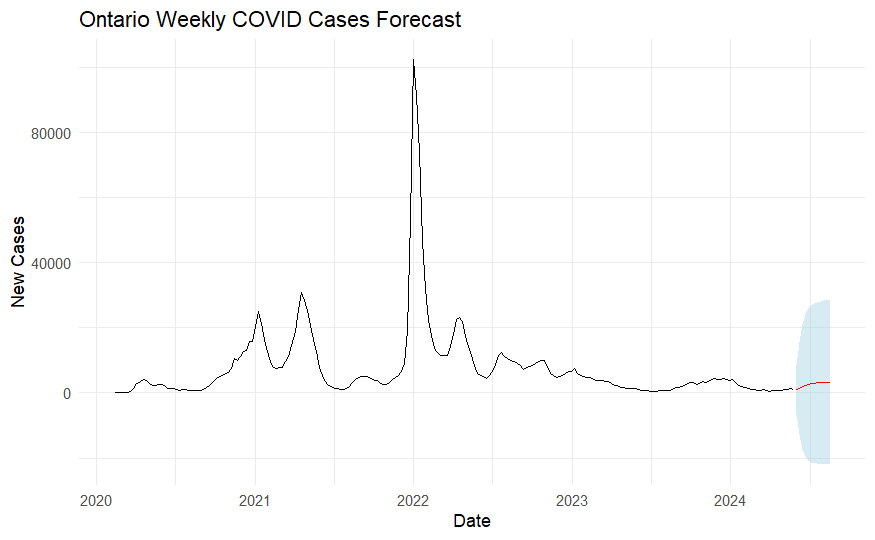
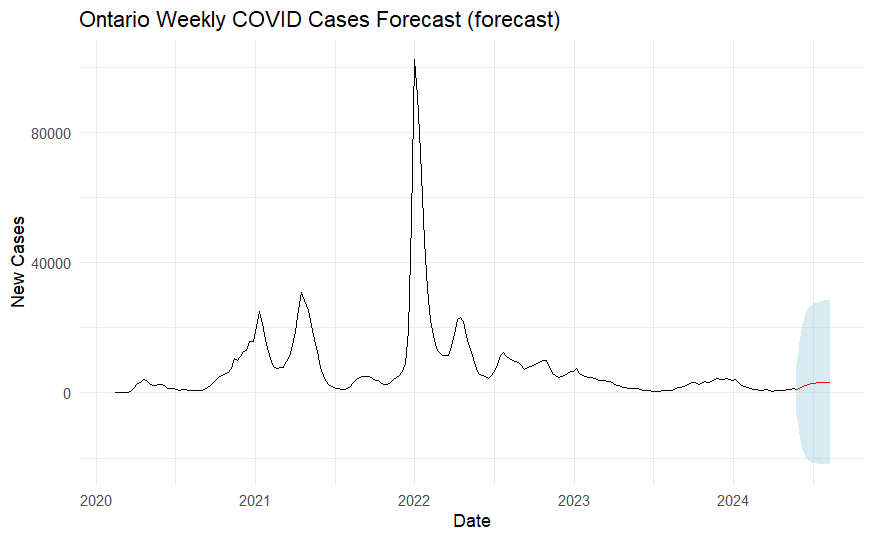
almost there

diff --git a/docs/index.html b/docs/index.html
@@ -110,6 +110,35 @@ pre > code.sourceCode > span > a:first-child::before { text-decoration: underlin
   }
 }</script>
 
+  <script src="https://cdnjs.cloudflare.com/polyfill/v3/polyfill.min.js?features=es6"></script>
+  <script src="https://cdn.jsdelivr.net/npm/mathjax@3/es5/tex-chtml-full.js" type="text/javascript"></script>
+
+<script type="text/javascript">
+const typesetMath = (el) => {
+  if (window.MathJax) {
+    // MathJax Typeset
+    window.MathJax.typeset([el]);
+  } else if (window.katex) {
+    // KaTeX Render
+    var mathElements = el.getElementsByClassName("math");
+    var macros = [];
+    for (var i = 0; i < mathElements.length; i++) {
+      var texText = mathElements[i].firstChild;
+      if (mathElements[i].tagName == "SPAN" && texText && texText.data) {
+        window.katex.render(texText.data, mathElements[i], {
+          displayMode: mathElements[i].classList.contains('display'),
+          throwOnError: false,
+          macros: macros,
+          fleqn: false
+        });
+      }
+    }
+  }
+}
+window.Quarto = {
+  typesetMath
+};
+</script>
 
 </head>
 
@@ -261,7 +290,7 @@ pre > code.sourceCode > span > a:first-child::before { text-decoration: underlin
 
 <section id="forecasting-with-covid-19-data-using-r-packages-covid19.analytics-forecast-and-prophet" class="level1" data-number="1">
 <h1 data-number="1"><span class="header-section-number">1</span> Forecasting with COVID-19 data using R packages covid19.analytics, forecast, and prophet</h1>
-<p>This user guide will demonstrate how to attain data from COVID-19 using the <code>covid19.analytics</code></p>
+<p>This user guide will demonstrate how to attain data from COVID-19 using the <code>covid19.analytics</code> and explore various methods of forecasting.</p>
 <section id="open-rstudio" class="level2" data-number="1.1">
 <h2 data-number="1.1" class="anchored" data-anchor-id="open-rstudio"><span class="header-section-number">1.1</span> Open RStudio</h2>
 <p>If you have not yet installed RStudio or would like to update your version of RStudio, visit the following link: <a href="https://posit.co/downloads/">https://posit.co/downloads/</a>. Create a new R script.</p>
@@ -301,7 +330,7 @@ pre > code.sourceCode > span > a:first-child::before { text-decoration: underlin
 </ul></li>
 <li><code>prophet</code>
 <ul>
-<li>package that allows for forecasting with more complex trends such as seasonal trends</li>
+<li>package that allows for forecasting created by facebook</li>
 </ul></li>
 <li><code>tseries</code>
 <ul>
@@ -385,7 +414,7 @@ pre > code.sourceCode > span > a:first-child::before { text-decoration: underlin
 </section>
 <section id="stationarity" class="level2" data-number="1.6">
 <h2 data-number="1.6" class="anchored" data-anchor-id="stationarity"><span class="header-section-number">1.6</span> Stationarity</h2>
-<p>Most statistical methods require an exploration of the property <strong>stationarity</strong>, including ARIMA, which will be discussed later. In short, it means that the mean, variance, autocorrelation structure, and others stay constant over time. There are multiple ways to investigate this in a data set. In this user guide, we will go over the Augmented Dickey-Fuller Test (ADF). Others can be found <a href="https://www.geeksforgeeks.org/r-machine-learning/stationarity-of-time-series-data-using-r/">here</a>.</p>
+<p>Most statistical methods of forecasting require an exploration of the property <strong>stationarity</strong>, including ARIMA, which will be discussed later. In short, it means that the mean, variance, autocorrelation structure, and others stay constant over time. There are multiple ways to investigate this in a data set. In this user guide, we will go over the Augmented Dickey-Fuller Test (ADF). Others can be found <a href="https://www.geeksforgeeks.org/r-machine-learning/stationarity-of-time-series-data-using-r/">here</a>.</p>
 <section id="augmented-dickey-fuller-adf-test" class="level3" data-number="1.6.1">
 <h3 data-number="1.6.1" class="anchored" data-anchor-id="augmented-dickey-fuller-adf-test"><span class="header-section-number">1.6.1</span> Augmented Dickey-Fuller (ADF) test</h3>
 <div class="cell">
@@ -393,6 +422,7 @@ pre > code.sourceCode > span > a:first-child::before { text-decoration: underlin
 <span id="cb8-2"><a href="#cb8-2" aria-hidden="true" tabindex="-1"></a><span class="fu">print</span>(<span class="st">"ADF Test:"</span>)</span>
 <span id="cb8-3"><a href="#cb8-3" aria-hidden="true" tabindex="-1"></a><span class="fu">print</span>(adf_test)</span></code></pre></div><button title="Copy to Clipboard" class="code-copy-button"><i class="bi"></i></button></div>
 </div>
+<p>The following output was obtained through running the code:</p>
 <pre><code>[1] "ADF Test:"
 
     Augmented Dickey-Fuller Test
@@ -401,6 +431,7 @@ data:  ontario_df$new_cases
 Dickey-Fuller = -3.9025, Lag order = 6,
 p-value = 0.0148
 alternative hypothesis: stationary</code></pre>
+<p>As we can see, the p-value resulting from the test is less than <span class="math inline">\(/alpha = 0.05\)</span>, which means that we are 95% confident that we reject the hypothesis that the data is not stationary.</p>
 </section>
 </section>
 <section id="forecast-new-data" class="level2" data-number="1.7">
@@ -408,12 +439,14 @@ alternative hypothesis: stationary</code></pre>
 <section id="r-package-forecast" class="level3" data-number="1.7.1">
 <h3 data-number="1.7.1" class="anchored" data-anchor-id="r-package-forecast"><span class="header-section-number">1.7.1</span> R Package <code>forecast</code></h3>
 <p>The demonstration with the <code>forecast</code> package will be consistent with what is known as Autoregressive Integrated Moving Average (ARIMA). The <code>forecast</code> package is capable of doing other methods of time series forecasting, but we will focus on ARIMA for simplicity’s sake.</p>
-<p>The first step is to decompose the data. This shows the breakdown of trends by the overall trend, the seasonal shifts, and discerned randomness. Looking at this plot, shown in Figure 1, can provide insight on the structure of your time data. Often, it can show if there is a clear pattern or not. In the case of the Covid-19 data on Ontario, Canada, we can see that there is a lot of randomness that tends to vary but with a consistent spike around the halfway mark when a new strain of Covid-19 caused an influx of cases.</p>
+<p>The first step is to decompose the data. This shows the breakdown of trends by the overall trend, the seasonal shifts, and discerned randomness.</p>
 <div class="cell">
 <div class="code-copy-outer-scaffold"><div class="sourceCode cell-code" id="cb10"><pre class="sourceCode r code-with-copy"><code class="sourceCode r"><span id="cb10-1"><a href="#cb10-1" aria-hidden="true" tabindex="-1"></a>ts_cases <span class="ot">&lt;-</span> <span class="fu">ts</span>(ontario_df<span class="sc">$</span>new_cases, <span class="at">frequency =</span> <span class="dv">24</span>)</span>
 <span id="cb10-2"><a href="#cb10-2" aria-hidden="true" tabindex="-1"></a>d<span class="ot">&lt;-</span><span class="fu">decompose</span>(ts_cases, <span class="st">"multiplicative"</span>)</span>
 <span id="cb10-3"><a href="#cb10-3" aria-hidden="true" tabindex="-1"></a><span class="fu">plot</span>(d)</span></code></pre></div><button title="Copy to Clipboard" class="code-copy-button"><i class="bi"></i></button></div>
 </div>
+<p>Looking at this plot, shown in Figure 1, can provide insight on the structure of your time data. Often, it can show if there is a clear pattern or not. In the case of the Covid-19 data on Ontario, Canada, we can see that there is a lot of randomness that tends to vary but with a consistent spike around the halfway mark when a new strain of Covid-19 caused an influx of cases.</p>
+<p><img src="decomp.png" class="img-fluid"> <em>Figure 1: Decomposition of <code>new_cases</code> through the raw, observed data, overall trend, seasonality, and randomness</em></p>
 <div class="cell">
 <div class="code-copy-outer-scaffold"><div class="sourceCode cell-code" id="cb11"><pre class="sourceCode r code-with-copy"><code class="sourceCode r"><span id="cb11-1"><a href="#cb11-1" aria-hidden="true" tabindex="-1"></a>fit <span class="ot">&lt;-</span> <span class="fu">auto.arima</span>(ontario_df<span class="sc">$</span>new_cases)</span>
 <span id="cb11-2"><a href="#cb11-2" aria-hidden="true" tabindex="-1"></a><span class="fu">summary</span>(fit)</span>
@@ -438,23 +471,31 @@ alternative hypothesis: stationary</code></pre>
 </section>
 <section id="plot" class="level2" data-number="1.8">
 <h2 data-number="1.8" class="anchored" data-anchor-id="plot"><span class="header-section-number">1.8</span> Plot</h2>
-<p>For comparison, plot both the forecasted and original data. You can copy the following code and change parameters to fit the naming convention of your own code.</p>
+<p>For comparison, plot both the forecasted and original data. You can copy the following code and change parameters to fit the naming convention of your own code. Both plots include the following:</p>
+<ol type="1">
+<li><code>ggplot()</code> to initialize the plots being created</li>
+<li><code>geom_ribbon()</code>, which graphs the bands of confidence around the forecasted data. The parameters of <code>ymin</code> and <code>ymax</code> differ between the two as the outputs of both forecasting packages are different. <code>length.out</code> should match the parameter <code>h</code> when used in the function <code>forecast</code>. Pay attention to the difference in <code>x</code> for both as well.</li>
+<li><code>geom_line()</code> with the color black is the same for both. This is your original raw data that will be used for visual comparison with the forecasted data.</li>
+<li><code>geom_line()</code> with the color red is the point forecasted data. Note that the input for <code>x</code> should be the same as it is in <code>geom_ribbon()</code> for both while <code>y</code> reflects the point estimate output of each method.</li>
+<li><code>labs()</code> are for the axis labels and graph title. Change the strings to fit the description of your data.</li>
+<li><code>theme_minimal()</code> is for aesthetic purposes only.</li>
+</ol>
 <div class="cell">
 <div class="code-copy-outer-scaffold"><div class="sourceCode cell-code" id="cb13"><pre class="sourceCode r code-with-copy"><code class="sourceCode r"><span id="cb13-1"><a href="#cb13-1" aria-hidden="true" tabindex="-1"></a><span class="fu">ggplot</span>() <span class="sc">+</span></span>
 <span id="cb13-2"><a href="#cb13-2" aria-hidden="true" tabindex="-1"></a>  <span class="fu">geom_ribbon</span>(<span class="at">data =</span> forecast_df,</span>
-<span id="cb13-3"><a href="#cb13-3" aria-hidden="true" tabindex="-1"></a>              <span class="fu">aes</span>(<span class="at">x =</span> <span class="fu">seq</span>(<span class="fu">max</span>(ontario_df<span class="sc">$</span>date) <span class="sc">+</span> <span class="dv">7</span>, <span class="at">by =</span> <span class="st">"week"</span>,</span>
+<span id="cb13-3"><a href="#cb13-3" aria-hidden="true" tabindex="-1"></a>              <span class="fu">aes</span>(<span class="at">x =</span> <span class="fu">seq</span>(<span class="fu">max</span>(ontario_df<span class="sc">$</span>date), <span class="at">by =</span> <span class="st">"week"</span>,</span>
 <span id="cb13-4"><a href="#cb13-4" aria-hidden="true" tabindex="-1"></a>                          <span class="at">length.out =</span> <span class="dv">12</span>), <span class="at">ymin =</span> Lo<span class="fl">.95</span>, <span class="at">ymax =</span> Hi<span class="fl">.95</span>),</span>
 <span id="cb13-5"><a href="#cb13-5" aria-hidden="true" tabindex="-1"></a>              <span class="at">fill =</span> <span class="st">"lightblue"</span>, <span class="at">alpha =</span> <span class="fl">0.5</span>) <span class="sc">+</span></span>
 <span id="cb13-6"><a href="#cb13-6" aria-hidden="true" tabindex="-1"></a>  <span class="fu">geom_line</span>(<span class="at">data =</span> ontario_df,</span>
 <span id="cb13-7"><a href="#cb13-7" aria-hidden="true" tabindex="-1"></a>            <span class="fu">aes</span>(<span class="at">x =</span> date, <span class="at">y =</span> new_cases),</span>
 <span id="cb13-8"><a href="#cb13-8" aria-hidden="true" tabindex="-1"></a>            <span class="at">color =</span> <span class="st">"black"</span>) <span class="sc">+</span></span>
 <span id="cb13-9"><a href="#cb13-9" aria-hidden="true" tabindex="-1"></a>  <span class="fu">geom_line</span>(<span class="at">data =</span> forecast_df,</span>
-<span id="cb13-10"><a href="#cb13-10" aria-hidden="true" tabindex="-1"></a>            <span class="fu">aes</span>(<span class="at">x =</span> <span class="fu">seq</span>(<span class="fu">max</span>(ontario_df<span class="sc">$</span>date) <span class="sc">+</span> <span class="dv">7</span>,</span>
+<span id="cb13-10"><a href="#cb13-10" aria-hidden="true" tabindex="-1"></a>            <span class="fu">aes</span>(<span class="at">x =</span> <span class="fu">seq</span>(<span class="fu">max</span>(ontario_df<span class="sc">$</span>date),</span>
 <span id="cb13-11"><a href="#cb13-11" aria-hidden="true" tabindex="-1"></a>                        <span class="at">by =</span> <span class="st">"week"</span>,</span>
 <span id="cb13-12"><a href="#cb13-12" aria-hidden="true" tabindex="-1"></a>                        <span class="at">length.out =</span> <span class="dv">12</span>),</span>
 <span id="cb13-13"><a href="#cb13-13" aria-hidden="true" tabindex="-1"></a>                <span class="at">y =</span> Point.Forecast),</span>
 <span id="cb13-14"><a href="#cb13-14" aria-hidden="true" tabindex="-1"></a>            <span class="at">color =</span> <span class="st">"red"</span>) <span class="sc">+</span></span>
-<span id="cb13-15"><a href="#cb13-15" aria-hidden="true" tabindex="-1"></a>  <span class="fu">labs</span>(<span class="at">title =</span> <span class="st">"Ontario Weekly COVID Cases Forecast"</span>,</span>
+<span id="cb13-15"><a href="#cb13-15" aria-hidden="true" tabindex="-1"></a>  <span class="fu">labs</span>(<span class="at">title =</span> <span class="st">"Ontario Weekly COVID Cases Forecast (forecast)"</span>,</span>
 <span id="cb13-16"><a href="#cb13-16" aria-hidden="true" tabindex="-1"></a>       <span class="at">y =</span> <span class="st">"New Cases"</span>,</span>
 <span id="cb13-17"><a href="#cb13-17" aria-hidden="true" tabindex="-1"></a>       <span class="at">x =</span> <span class="st">"Date"</span>) <span class="sc">+</span></span>
 <span id="cb13-18"><a href="#cb13-18" aria-hidden="true" tabindex="-1"></a>  <span class="fu">theme_minimal</span>()</span></code></pre></div><button title="Copy to Clipboard" class="code-copy-button"><i class="bi"></i></button></div>
@@ -470,14 +511,14 @@ alternative hypothesis: stationary</code></pre>
 <span id="cb14-8"><a href="#cb14-8" aria-hidden="true" tabindex="-1"></a>  <span class="fu">geom_line</span>(<span class="at">data =</span> forecast_p_df,</span>
 <span id="cb14-9"><a href="#cb14-9" aria-hidden="true" tabindex="-1"></a>            <span class="fu">aes</span>(<span class="at">x =</span> ds, <span class="at">y =</span> yhat),</span>
 <span id="cb14-10"><a href="#cb14-10" aria-hidden="true" tabindex="-1"></a>            <span class="at">color =</span> <span class="st">"red"</span>) <span class="sc">+</span></span>
-<span id="cb14-11"><a href="#cb14-11" aria-hidden="true" tabindex="-1"></a>  <span class="fu">labs</span>(<span class="at">title =</span> <span class="st">"Ontario Weekly COVID Cases Forecast (Prophet)"</span>,</span>
+<span id="cb14-11"><a href="#cb14-11" aria-hidden="true" tabindex="-1"></a>  <span class="fu">labs</span>(<span class="at">title =</span> <span class="st">"Ontario Weekly COVID Cases Forecast (prophet)"</span>,</span>
 <span id="cb14-12"><a href="#cb14-12" aria-hidden="true" tabindex="-1"></a>       <span class="at">x =</span> <span class="st">"Date"</span>, <span class="at">y =</span> <span class="st">"New Cases"</span>) <span class="sc">+</span></span>
 <span id="cb14-13"><a href="#cb14-13" aria-hidden="true" tabindex="-1"></a>  <span class="fu">theme_minimal</span>()</span></code></pre></div><button title="Copy to Clipboard" class="code-copy-button"><i class="bi"></i></button></div>
 </div>
 </section>
 <section id="compare" class="level2" data-number="1.9">
 <h2 data-number="1.9" class="anchored" data-anchor-id="compare"><span class="header-section-number">1.9</span> Compare</h2>
-<p>These two plots are examples of ones generated using <code>forecast</code> then <code>prophet</code>.</p>
+<p>These two plots are examples of ones generated using <code>forecast</code> then <code>prophet</code>. The largest difference that we can see is the way that each handles new predictions. <code>prophet</code> focuses on smoothing out the current raw data then using the trends to predict how future data will behave. In both, the confidence bands in blue showcase that the direction is not conclusive. This could be due to the fact that there are multiple strands of Covid-19 with different transmission rates. Additionally, there are less tests for Covid-19 as vaccines became more widely spread and it was seen as less of a threat as when it first was deemed a global pandemic. Many other external factors could contribute to the near erasure of high inflections in new cases.</p>
 <div class="quarto-layout-panel" data-layout-ncol="2">
 <div class="quarto-layout-row">
 <div class="quarto-layout-cell" style="flex-basis: 50.0%;justify-content: flex-start;">
